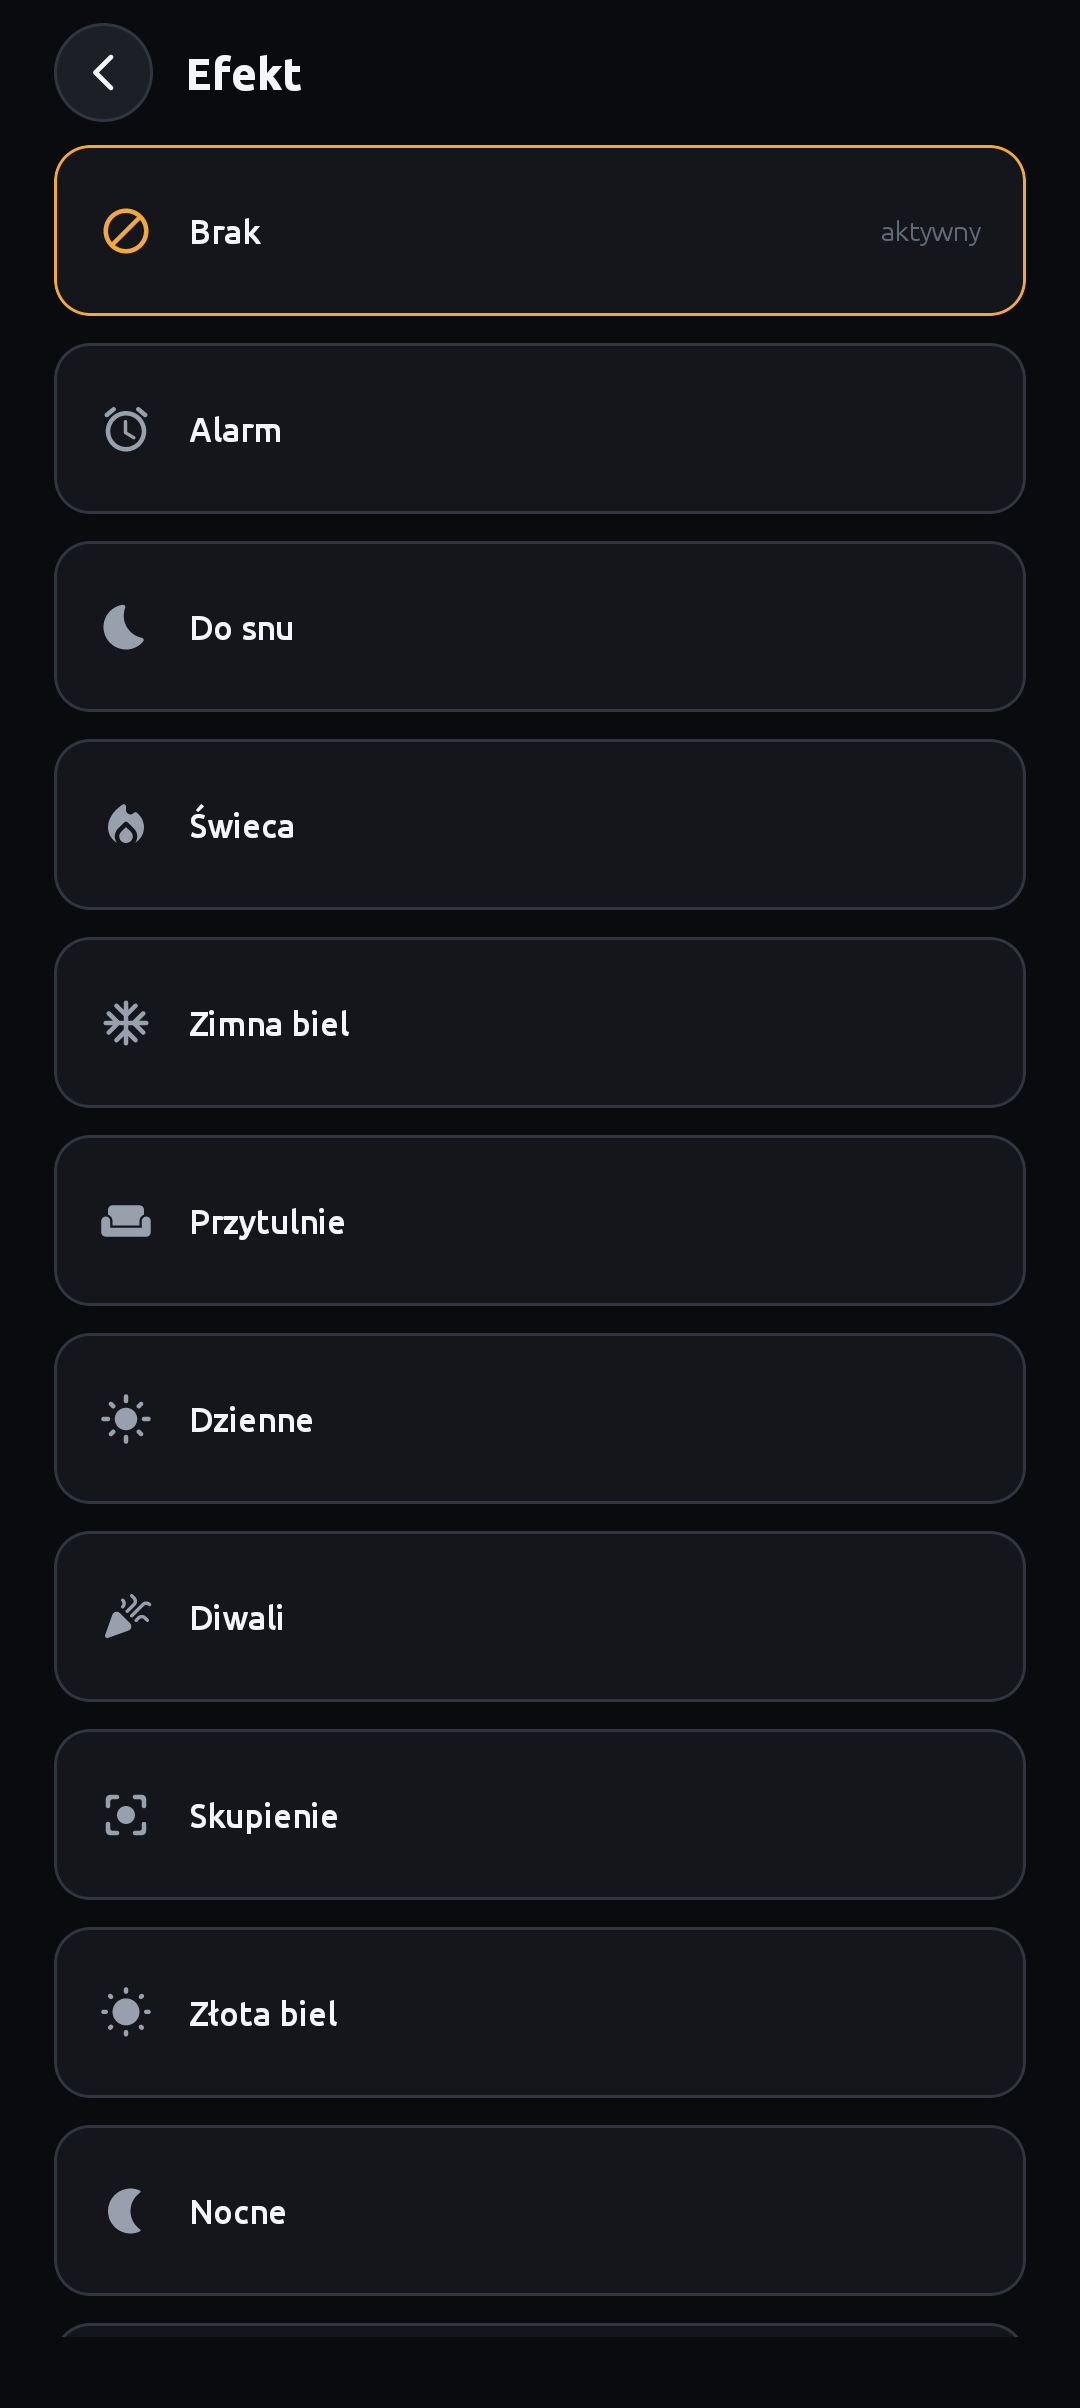
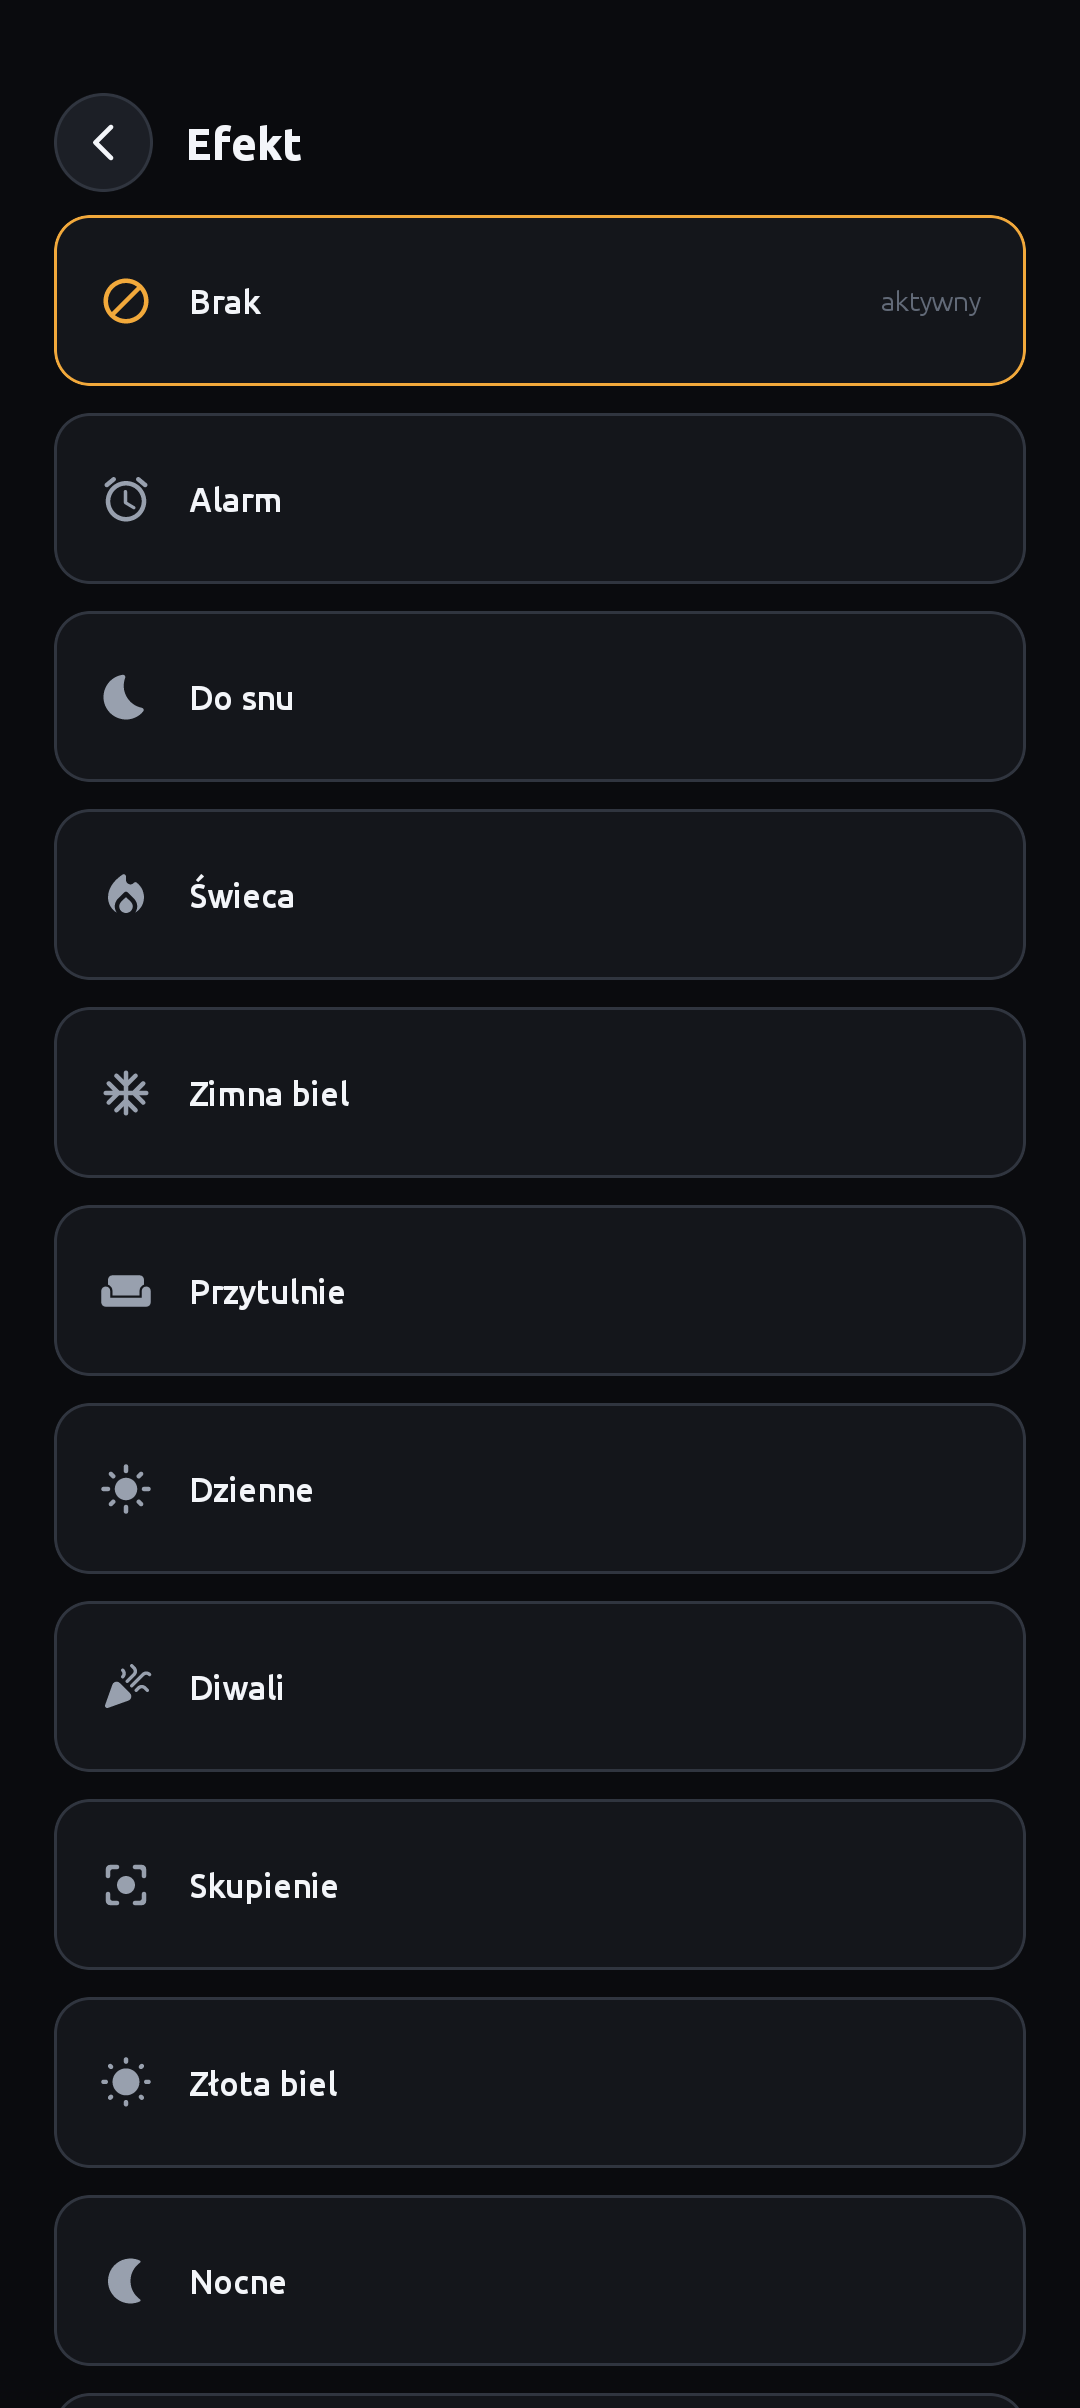
fix(native): option lists in an in-app overlay instead of a dialog window
The channel list (and every other OptionDialog) opened a frame short of the
right edge and then jumped: Compose 1.5 lays a dialog window's content out
without the navigation bar, and the window workarounds from the previous
commit repainted the gap one frame late.

Option lists now draw in an overlay on top of the remote's own screen
(Overlay / LocalOverlay, hosted by PilotApp under the sleep curtain), so
there is no second window, no system bar juggling and nothing to flicker.
Back closes the list via BackHandler; tapping the scrim still dismisses.
In landscape the panel insets only from the top, bottom and right, so the
camera cutout on the left no longer shifts its content.

diff --git a/phone/native/app/src/main/java/app/couchpad/pilot/ui/components/Pickers.kt b/phone/native/app/src/main/java/app/couchpad/pilot/ui/components/Pickers.kt
@@ -1,24 +1,22 @@
 package app.couchpad.pilot.ui.components
 
-import android.os.Build
-import android.graphics.drawable.ColorDrawable
-import android.graphics.drawable.LayerDrawable
-import android.graphics.drawable.Drawable
-import android.view.Gravity
-import android.view.Window
-import android.view.WindowManager
-import androidx.core.view.WindowCompat
-import androidx.core.view.WindowInsetsCompat
-import androidx.core.view.WindowInsetsControllerCompat
-
+import androidx.activity.compose.BackHandler
 import androidx.compose.foundation.background
 import androidx.compose.foundation.border
 import androidx.compose.foundation.layout.Arrangement
+import androidx.compose.foundation.layout.systemBars
+import androidx.compose.foundation.layout.windowInsetsPadding
+import androidx.compose.foundation.layout.union
+import androidx.compose.foundation.layout.only
+import androidx.compose.foundation.layout.displayCutout
+import androidx.compose.foundation.layout.WindowInsetsSides
+import androidx.compose.foundation.layout.WindowInsets
 import androidx.compose.foundation.layout.Box
 import androidx.compose.foundation.layout.Column
 import androidx.compose.foundation.layout.PaddingValues
 import androidx.compose.foundation.layout.Row
 import androidx.compose.foundation.layout.Spacer
+import androidx.compose.foundation.layout.displayCutoutPadding
 import androidx.compose.foundation.layout.fillMaxHeight
 import androidx.compose.foundation.layout.fillMaxSize
 import androidx.compose.foundation.layout.fillMaxWidth
@@ -32,28 +30,19 @@ import androidx.compose.foundation.lazy.items
 import androidx.compose.foundation.shape.RoundedCornerShape
 import androidx.compose.material3.Icon
 import androidx.compose.runtime.Composable
-import kotlin.math.roundToInt
-import androidx.compose.ui.layout.positionInWindow
-import androidx.compose.ui.layout.onGloballyPositioned
-import androidx.compose.runtime.mutableStateOf
-import androidx.compose.runtime.remember
-import androidx.compose.runtime.setValue
-import androidx.compose.runtime.getValue
+import androidx.compose.runtime.DisposableEffect
 import androidx.compose.runtime.SideEffect
+import androidx.compose.runtime.mutableStateListOf
+import androidx.compose.runtime.remember
+import androidx.compose.runtime.staticCompositionLocalOf
 import androidx.compose.ui.Alignment
 import androidx.compose.ui.Modifier
 import androidx.compose.ui.draw.clip
 import androidx.compose.ui.graphics.Color
 import androidx.compose.ui.graphics.vector.ImageVector
 import androidx.compose.ui.text.font.FontWeight
-import androidx.compose.ui.graphics.toArgb
-import androidx.compose.ui.platform.LocalView
-import androidx.compose.ui.window.Dialog
-import androidx.compose.ui.window.DialogWindowProvider
-import androidx.compose.ui.window.DialogProperties
 import app.couchpad.pilot.ui.theme.C
 import app.couchpad.pilot.ui.theme.LocalLandscape
-import app.couchpad.pilot.ui.theme.ProvideUnits
 import app.couchpad.pilot.ui.theme.T
 import app.couchpad.pilot.ui.theme.u
 
@@ -67,6 +56,10 @@ fun List<String>.asChoices(label: (String) -> String = { it }) = map { Choice(it
  * 380 px przy prawej krawędzi nad przyciemnionym ekranem. Każda opcja to karta z ikoną,
  * bieżąca ma obwódkę w akcencie i podpis „aktywny”. **Wybór zamyka listę**; Wstecz albo
  * dotknięcie tła zamyka bez zmian.
+ *
+ * Rysuje się w warstwie nad ekranem pilota ([LocalOverlay]), nie w osobnym oknie dialogu:
+ * okno dialogu w Compose 1.5 nie sięga pod paski systemu, więc lista otwierała się z pasami
+ * przy krawędziach i przeskakiwała w pierwszej klatce.
  */
 @Composable
 fun OptionDialog(
@@ -77,54 +70,86 @@ fun OptionDialog(
     icon: ((String) -> ImageVector)? = null,
     onSelect: (String) -> Unit,
 ) {
-    Dialog(
-        onDismissRequest = onDismiss,
-        properties = DialogProperties(usePlatformDefaultWidth = false, decorFitsSystemWindows = false),
-    ) {
-        val window = (LocalView.current.parent as? DialogWindowProvider)?.window
-        // Lewy brzeg panelu w oknie (poziom); do niego sięga jasny pas tła okna.
-        var panelLeft by remember { mutableStateOf<Int?>(null) }
-        ProvideUnits {
-            if (window != null) {
-                val landscape = LocalLandscape.current
-                val bg = C.bg.toArgb()
-                SideEffect { fillScreen(window, landscape, panelLeft, bg) }
-            }
-            val list: @Composable (Modifier) -> Unit = { modifier ->
-                Column(modifier.background(C.bg)) {
-                    PageHeader(title, onBack = onDismiss)
-                    LazyColumn(
-                        Modifier.fillMaxWidth().weight(1f),
-                        contentPadding = PaddingValues(start = 24.u, end = 24.u, bottom = 24.u),
-                        verticalArrangement = Arrangement.spacedBy(12.u),
-                    ) {
-                        items(options) { option ->
-                            ChoiceCard(option, option.id == selected, icon?.invoke(option.id)) {
-                                onSelect(option.id)
-                                onDismiss()
-                            }
-                        }
+    BackHandler(onBack = onDismiss)
+    val sheet: @Composable () -> Unit = { OptionSheet(title, options, selected, onDismiss, icon, onSelect) }
+    val overlay = LocalOverlay.current
+    if (overlay == null) {
+        sheet()
+        return
+    }
+    // Warstwa dostaje zawsze najnowszą treść; znika razem z listą.
+    val key = remember { Any() }
+    SideEffect { overlay.show(key, sheet) }
+    DisposableEffect(overlay, key) { onDispose { overlay.hide(key) } }
+}
+
+@Composable
+private fun OptionSheet(
+    title: String,
+    options: List<Choice>,
+    selected: String?,
+    onDismiss: () -> Unit,
+    icon: ((String) -> ImageVector)?,
+    onSelect: (String) -> Unit,
+) {
+    val list: @Composable (Modifier) -> Unit = { modifier ->
+        Column(modifier) {
+            PageHeader(title, onBack = onDismiss)
+            LazyColumn(
+                Modifier.fillMaxWidth().weight(1f),
+                contentPadding = PaddingValues(start = 24.u, end = 24.u, bottom = 24.u),
+                verticalArrangement = Arrangement.spacedBy(12.u),
+            ) {
+                items(options) { option ->
+                    ChoiceCard(option, option.id == selected, icon?.invoke(option.id)) {
+                        onSelect(option.id)
+                        onDismiss()
                     }
                 }
             }
-            if (LocalLandscape.current) {
-                Row(Modifier.fillMaxSize()) {
-                    // Przyciemnia tło okna (fillScreen) — razem z pasem pod paskiem nawigacji.
-                    Box(Modifier.weight(1f).fillMaxHeight().tap(feedback = false, onClick = onDismiss))
-                    list(
-                        Modifier.width(380.u).fillMaxHeight().background(C.bg)
-                            .onGloballyPositioned { panelLeft = it.positionInWindow().x.roundToInt() }
-                            .systemBarsPadding(),
-                    )
-                }
-            } else {
-                // Tło przed odstępem od pasków systemu, żeby pod paskiem statusu nie prześwitywało
-                // przyciemnienie okna dialogu (szary pas w stylu jasnym).
-                list(Modifier.fillMaxSize().background(C.bg).systemBarsPadding())
-            }
         }
     }
+    if (LocalLandscape.current) {
+        Row(Modifier.fillMaxSize()) {
+            Box(Modifier.weight(1f).fillMaxHeight().background(Color.Black.copy(alpha = 0.6f)).tap(feedback = false, onClick = onDismiss))
+            // Tło do samej krawędzi, treść z odstępem od pasków systemu.
+            list(
+                Modifier.width(380.u).fillMaxHeight().background(C.bg).windowInsetsPadding(
+                    // Panel stoi przy prawej krawędzi: wcięcie kamery z lewej go nie dotyczy.
+                    WindowInsets.systemBars.union(WindowInsets.displayCutout)
+                        .only(WindowInsetsSides.Vertical + WindowInsetsSides.End),
+                ),
+            )
+        }
+    } else {
+        // Pełny ekran zabiera też dotyk, żeby nie przechodził do ekranu pod spodem.
+        list(Modifier.fillMaxSize().background(C.bg).tap(feedback = false) {}.systemBarsPadding().displayCutoutPadding())
+    }
 }
+
+/**
+ * Warstwa nad całym ekranem pilota (PilotApp): tu rysują się listy wyboru. Ostatnio
+ * pokazana jest na wierzchu.
+ */
+class Overlay {
+    private val entries = mutableStateListOf<Pair<Any, @Composable () -> Unit>>()
+
+    fun show(key: Any, content: @Composable () -> Unit) {
+        val i = entries.indexOfFirst { it.first === key }
+        if (i >= 0) entries[i] = key to content else entries.add(key to content)
+    }
+
+    fun hide(key: Any) {
+        entries.removeAll { it.first === key }
+    }
+
+    @Composable
+    fun Content() {
+        for ((key, content) in entries) androidx.compose.runtime.key(key) { content() }
+    }
+}
+
+val LocalOverlay = staticCompositionLocalOf<Overlay?> { null }
 
 @Composable
 private fun ChoiceCard(option: Choice, active: Boolean, icon: ImageVector?, onClick: () -> Unit) {
@@ -230,52 +255,3 @@ fun OptionTile(
 /** Obrys kafla: pełny akcent, gdy aktywny; przygaszony, gdy tylko czeka na potwierdzenie. */
 fun pendingBorder(active: Boolean, pending: Boolean): Color =
     C.accent.copy(alpha = if (pending && !active) 0.5f else 1f)
-
-/**
- * Okno listy wyboru na cały ekran, jak pilot (MainActivity): pasek stanu ukryty, paski
- * przezroczyste, bez systemowego przyciemnienia (w stylu jasnym zostawało szarym pasem pod
- * paskiem stanu). Compose 1.5 i tak mierzy treść dialogu bez paska nawigacji, więc pas pod
- * nim maluje tło okna: w pionie tłem listy, w poziomie przyciemnieniem z jasnym pasem od
- * lewego brzegu panelu ([panelLeft]) do prawej krawędzi.
- */
-private fun fillScreen(window: Window, landscape: Boolean, panelLeft: Int?, bg: Int) {
-    window.setDimAmount(0f)
-    val metrics = android.util.DisplayMetrics()
-    @Suppress("DEPRECATION")
-    window.windowManager.defaultDisplay.getRealMetrics(metrics)
-    window.setLayout(metrics.widthPixels, metrics.heightPixels)
-    window.setGravity(Gravity.TOP or Gravity.START)
-    window.addFlags(WindowManager.LayoutParams.FLAG_LAYOUT_NO_LIMITS)
-    window.attributes = window.attributes.apply {
-        if (Build.VERSION.SDK_INT >= Build.VERSION_CODES.P) {
-            layoutInDisplayCutoutMode = WindowManager.LayoutParams.LAYOUT_IN_DISPLAY_CUTOUT_MODE_SHORT_EDGES
-        }
-        if (Build.VERSION.SDK_INT >= Build.VERSION_CODES.R) fitInsetsTypes = 0
-    }
-    window.statusBarColor = android.graphics.Color.TRANSPARENT
-    window.navigationBarColor = android.graphics.Color.TRANSPARENT
-    if (Build.VERSION.SDK_INT >= Build.VERSION_CODES.Q) window.isNavigationBarContrastEnforced = false
-    WindowCompat.setDecorFitsSystemWindows(window, false)
-    WindowInsetsControllerCompat(window, window.decorView).apply {
-        hide(WindowInsetsCompat.Type.statusBars())
-        systemBarsBehavior = WindowInsetsControllerCompat.BEHAVIOR_SHOW_TRANSIENT_BARS_BY_SWIPE
-    }
-    window.setBackgroundDrawable(background(window, landscape, panelLeft, bg))
-}
-
-/**
- * Tło okna listy. W poziomie jasny pas od [panelLeft] do prawej krawędzi ekranu, a na lewo
- * przyciemnienie; dopóki panel nie jest rozmieszczony — samo przyciemnienie.
- */
-private fun background(window: Window, landscape: Boolean, panelLeft: Int?, bg: Int): Drawable {
-    if (!landscape) return ColorDrawable(bg)
-    val width = window.decorView.width
-    if (panelLeft == null || width <= 0) return ColorDrawable(SCRIM)
-    return LayerDrawable(arrayOf(ColorDrawable(SCRIM), ColorDrawable(bg))).apply {
-        setLayerGravity(1, Gravity.END or Gravity.FILL_VERTICAL)
-        setLayerWidth(1, (width - panelLeft).coerceAtLeast(0))
-    }
-}
-
-/** Przyciemnienie ekranu pod panelem listy w poziomie (czarny, 60%). */
-private const val SCRIM = 0x99000000.toInt()

diff --git a/phone/native/app/src/main/java/app/couchpad/pilot/ui/shell/PilotApp.kt b/phone/native/app/src/main/java/app/couchpad/pilot/ui/shell/PilotApp.kt
@@ -17,6 +17,9 @@ import androidx.compose.foundation.layout.navigationBarsPadding
 import androidx.compose.foundation.layout.statusBarsPadding
 import androidx.compose.foundation.layout.systemBarsPadding
 import androidx.compose.runtime.Composable
+import app.couchpad.pilot.ui.components.LocalOverlay
+import app.couchpad.pilot.ui.components.Overlay
+import androidx.compose.runtime.CompositionLocalProvider
 import androidx.compose.runtime.LaunchedEffect
 import androidx.compose.runtime.getValue
 import androidx.compose.runtime.mutableLongStateOf
@@ -110,7 +113,8 @@ fun PilotApp(repo: PilotRepository, display: DisplayControl, homeSignal: StateFl
     // telefonu zostawała czarna zasłona z jasnością 1%.
     LaunchedEffect(home) { if (home > 0) wakeUp() }
 
-    ProvideUnits {
+    val overlay = remember { Overlay() }
+    CompositionLocalProvider(LocalOverlay provides overlay) { ProvideUnits {
         val content: @Composable (Modifier) -> Unit = { modifier ->
             Box(modifier) {
                 AnimatedContent(
@@ -159,6 +163,8 @@ fun PilotApp(repo: PilotRepository, display: DisplayControl, homeSignal: StateFl
                     if (screen != Screen.Start) TabBar(screen) { screen = it }
                 }
             }
+            // Listy wyboru nad całym ekranem, pod zasłoną uśpienia.
+            overlay.Content()
             if (asleep) {
                 // Uśpiony pilot: czarny ekran zabiera pierwsze dotknięcie i budzi pilota na
                 // ekranie startowym (ADR 0010), a stan pobiera się w tle (ADR 0005).
@@ -170,7 +176,7 @@ fun PilotApp(repo: PilotRepository, display: DisplayControl, homeSignal: StateFl
                 )
             }
         }
-    }
+    } }
 }
 
 @Composable
